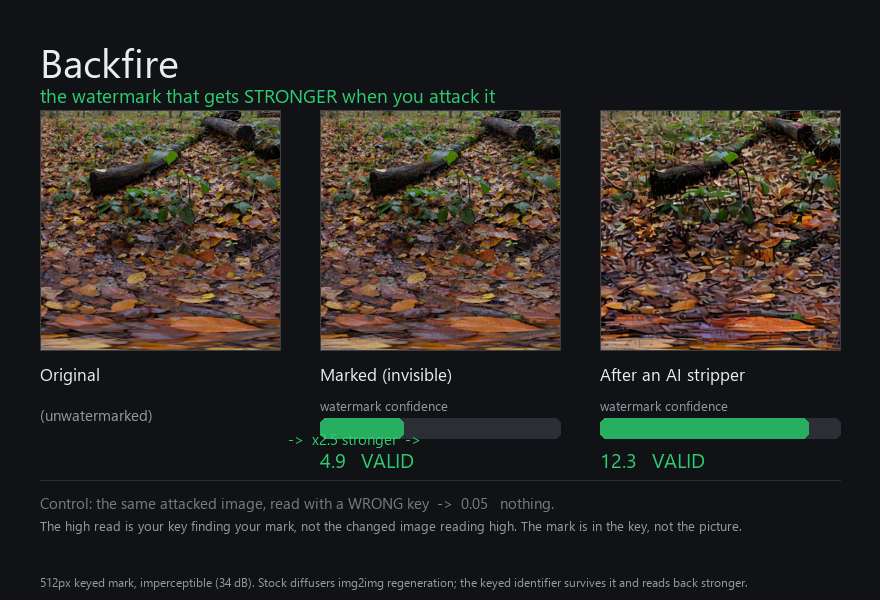
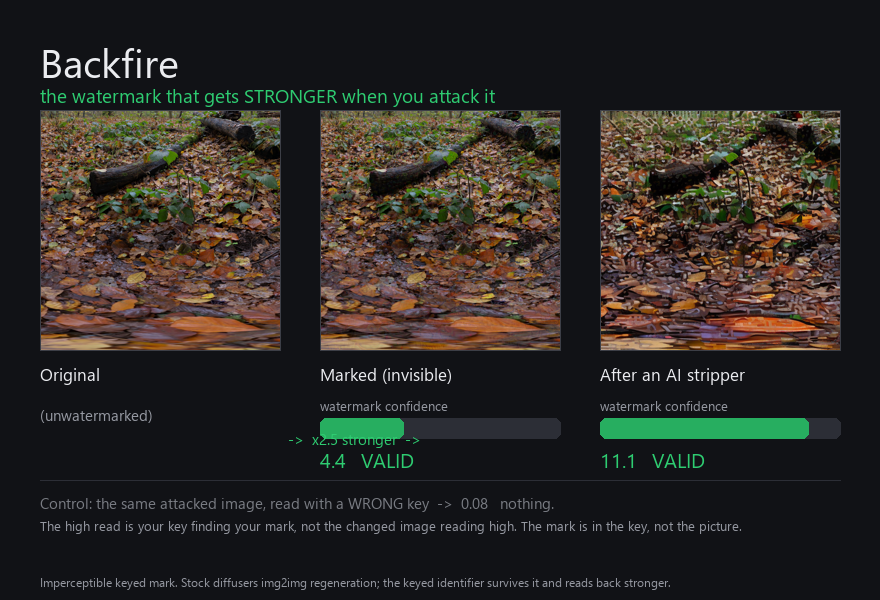
fix(backfire): address code review (model pin, size auto-detect, honest limits)
- Pin the diffusion purifier to a specific revision of a community SD-2.1
  mirror, and document why: Stability withdrew the official SD-2.1 weights
  from Hugging Face, so there is no canonical checkpoint left to depend on.
  The default is now reproducible and explained; override with --model /
  --revision or the BACKFIRE_SD_MODEL / BACKFIRE_SD_REVISION variables.
- read defaults to 512 and auto-tries the other resolution, so a bare
  `read sample_marked.png --key ...` on the 512 sample validates instead of
  silently returning invalid. This also fixes the CLI --backfire-read, which
  inherits the default.
- demo_amplify.py reads a wrong-key control and draws the same three-panel
  layout as the shipped demo, so running it reproduces demo_result.png. The
  demo is regenerated single-model on the pinned mirror (embed and attack on
  identical weights), replacing the earlier cross-model render.
- Flag the documented dead ends in their help text: --carriers edge and
  --notch-eot are shipped to reproduce a failed approach, not recommended.
- LIMITS scale numbers now match the README exactly: 24 photos for
  amplification and generalization, 1000 unmarked for false positives, 300
  clean with an 81-config notch grid for the tripwire.
- backfire_text clears its own stale smear shards (Identifier.3 and the like)
  on re-stamp via a prefix match, instead of leaving them to corrupt a decode.
- Soften the notch-threshold help to "clean tail ~1.4, threshold 1.45".
[…]

diff --git a/backfire/backfire.py b/backfire/backfire.py
@@ -25,6 +25,13 @@ LO, HI = 6.0, 40.0                 # mid-frequency carrier band (radial px @ 256
 ID_BITS, ID_REPS = 4, 8            # 4-bit keyed id (16 per key; keyspace unbounded), 8 reps
 NBITS = ID_BITS * ID_REPS          # 32 carriers, all id (reliability over capacity)
 
+# Diffusion purifier proxy. Stability withdrew the original SD-2.1 weights from Hugging
+# Face (the whole 2.x line is gone, not merely gated), so there is no official checkpoint
+# to point at. We develop against a complete community mirror of those weights, pinned to
+# an exact revision for reproducibility. Override with --model / --revision.
+DEFAULT_MODEL = "huanzi05/stable-diffusion-2-1-base"
+DEFAULT_REV = "f71d7867a2745c420aa93441638b119c85995963"
+
 def _scaled_band(lo: float, hi: float, size: int):
     """Scale an @256 radial-bin band to `size` so the same *relative* frequency
     (cycles/pixel) is used at any resolution. size=256 returns (lo, hi) unchanged, so
@@ -167,13 +174,25 @@ def notch_tamper_stat(gray, size):
 
 # ------------------------------- read (numpy) -------------------------------
 def read_cmd(a):
-    img = np.asarray(Image.open(a.infile).convert("RGB").resize((a.size, a.size)), np.float32) / 255.0
-    gray = img.mean(2)
-    idv, conf, margin = decode_keyed(gray, _key_bytes(a.key, a.hexkey), a.size, a.carriers)
-    valid = margin > a.threshold         # every id bit must clear the decoy noise floor
-    tamper = notch_tamper_stat(gray, a.size)
+    key = _key_bytes(a.key, a.hexkey)
+    rgb = Image.open(a.infile).convert("RGB")
+    # Try the requested size first, then the other standard resolution, so a mark
+    # embedded at either 256 or 512 is found without the caller guessing. Stop at
+    # the first size that validates; otherwise keep the requested size's result.
+    sizes = [a.size] + [s for s in (512, 256) if s != a.size]
+    best = None
+    for size in sizes:
+        gray = (np.asarray(rgb.resize((size, size)), np.float32) / 255.0).mean(2)
+        idv, conf, margin = decode_keyed(gray, key, size, a.carriers)
+        valid = bool(margin > a.threshold)   # every id bit must clear the decoy noise floor
+        tamper = notch_tamper_stat(gray, size)
+        if best is None or valid:
+            best = (size, idv, conf, margin, valid, tamper)
+        if valid:
+            break
+    size, idv, conf, margin, valid, tamper = best
     print(json.dumps({"id": idv, "id_hex": f"0x{idv:X}", "confidence": round(conf, 4),
-                      "min_bit_margin": round(margin, 4), "valid": valid,
+                      "min_bit_margin": round(margin, 4), "valid": valid, "size": size,
                       "match": (idv == a.expect) if a.expect is not None else None,
                       "notch_tamper": {"stat": round(tamper, 3), "detected": tamper > a.notch_threshold}}))
     if a.expect is not None:
@@ -195,14 +214,17 @@ def embed_cmd(a):
     model_ids = [m.strip() for m in a.models.split(",")] if a.models else [a.model]
 
     def build_purifier(model_id):
-        log(f"loading diffusion purifier proxy: {model_id} ...")
+        # Pin the tested revision for the default mirror; a custom --model uses --revision
+        # or main. Keeps the default reproducible now that the upstream weights are gone.
+        rev = a.revision if a.revision else (DEFAULT_REV if model_id == DEFAULT_MODEL else None)
+        log(f"loading diffusion purifier proxy: {model_id}{' @ ' + rev[:12] if rev else ''} ...")
         # force fp32 on every backend: some models (e.g. distilled ones) ship fp16
         # components, which mismatch the fp32 pipeline in cross-attention.
-        vae = AutoencoderKL.from_pretrained(model_id, subfolder="vae").to(dev).float().eval()
-        unet = UNet2DConditionModel.from_pretrained(model_id, subfolder="unet").to(dev).float().eval()
-        tok = CLIPTokenizer.from_pretrained(model_id, subfolder="tokenizer")
-        txt = CLIPTextModel.from_pretrained(model_id, subfolder="text_encoder").to(dev).float().eval()
-        sched = DDIMScheduler.from_pretrained(model_id, subfolder="scheduler")
+        vae = AutoencoderKL.from_pretrained(model_id, subfolder="vae", revision=rev).to(dev).float().eval()
+        unet = UNet2DConditionModel.from_pretrained(model_id, subfolder="unet", revision=rev).to(dev).float().eval()
+        tok = CLIPTokenizer.from_pretrained(model_id, subfolder="tokenizer", revision=rev)
+        txt = CLIPTextModel.from_pretrained(model_id, subfolder="text_encoder", revision=rev).to(dev).float().eval()
+        sched = DDIMScheduler.from_pretrained(model_id, subfolder="scheduler", revision=rev)
         for m in (vae, unet, txt):
             for p in m.parameters(): p.requires_grad_(False)
         unet.enable_gradient_checkpointing()
@@ -337,18 +359,24 @@ def main():
     e.add_argument("--direct", type=float, default=0.7, help="pre-attack readability weight")
     e.add_argument("--eot-strengths", default="0.2,0.3"); e.add_argument("--eot-noises", type=int, default=4)
     e.add_argument("--threshold", type=float, default=2.5, help="min per-bit margin for a valid read")
-    e.add_argument("--carriers", choices=["band", "edge"], default="band", help="band (default) or content-coupled edge-masked mid-low carriers")
-    e.add_argument("--notch-eot", type=float, default=0.0, help="weight on staying readable after a band-notch (notch-in-the-loop hardening; 0 = off)")
+    e.add_argument("--carriers", choices=["band", "edge"], default="band", help="band (default) or content-coupled edge-masked mid-low carriers. edge is a documented dead end (see LIMITS.md): it did not improve notch survival; shipped only to reproduce that result")
+    e.add_argument("--notch-eot", type=float, default=0.0, help="weight on staying readable after a band-notch (notch-in-the-loop). A documented dead end (see LIMITS.md): it never reached notch robustness; shipped only to reproduce that result, not recommended. 0 = off")
     e.add_argument("--assess", action="store_true", help="after embed, measure this mark's survival vs the purifier and a band-notch, and emit a per-image rating")
-    e.add_argument("--model", default="huanzi05/stable-diffusion-2-1-base")
+    e.add_argument("--model", default=DEFAULT_MODEL,
+                   help="diffusion purifier proxy. Stability withdrew the official SD-2.1 weights; "
+                        "the default is a pinned community mirror of them (see --revision)")
+    e.add_argument("--revision", default=None,
+                   help="pin a model git revision. Defaults to the tested revision when --model is "
+                        "the default mirror; ignored (uses main) for a custom --model")
     e.add_argument("--models", default=None, help="comma-separated diffusion backends for expectation-over-purifiers EOT (overrides --model; cost scales with count)")
     e.add_argument("--device", default="cuda")
     e.set_defaults(func=embed_cmd)
     r = sub.add_parser("read", help="recover the keyed id (numpy only, no GPU)")
     r.add_argument("infile"); r.add_argument("--key", required=True); r.add_argument("--hexkey", action="store_true")
-    r.add_argument("--size", type=int, default=256); r.add_argument("--threshold", type=float, default=2.5)
+    r.add_argument("--size", type=int, default=512, help="resolution to read at; if it does not validate, the other of 256/512 is tried automatically")
+    r.add_argument("--threshold", type=float, default=2.5)
     r.add_argument("--carriers", choices=["band", "edge"], default="band", help="must match how the image was embedded")
-    r.add_argument("--notch-threshold", type=float, default=NOTCH_TAMPER_THRESHOLD, help="band-notch tamper tripwire threshold (clean images < 1.4, mark-stripping notches > 4)")
+    r.add_argument("--notch-threshold", type=float, default=NOTCH_TAMPER_THRESHOLD, help="band-notch tamper tripwire threshold (clean tail ~1.4, threshold 1.45; mark-stripping notches read 4+)")
     r.add_argument("--expect", type=lambda x: int(x, 0), default=None, help="exit 0 iff this id is read and valid")
     r.set_defaults(func=read_cmd)
     a = ap.parse_args(); a.func(a)

diff --git a/backfire/repro/demo_amplify.py b/backfire/repro/demo_amplify.py
@@ -23,7 +23,10 @@ import subprocess
 import sys
 
 BF = os.path.join(os.path.dirname(__file__), os.pardir, "backfire.py")
-MODEL = os.environ.get("BACKFIRE_SD_MODEL", "stabilityai/stable-diffusion-2-1-base")
+# Stability withdrew the official SD-2.1 weights; use the same pinned community mirror the
+# embed side defaults to, so the demo is single-model (embed and attack on identical weights).
+MODEL = os.environ.get("BACKFIRE_SD_MODEL", "huanzi05/stable-diffusion-2-1-base")
+MODEL_REV = os.environ.get("BACKFIRE_SD_REVISION", "f71d7867a2745c420aa93441638b119c85995963")
 
 
 def sh_read(path, key, carriers, size):
@@ -49,8 +52,9 @@ def purify(marked_path, out_path, strength, steps, seed, size):
 
     dev = "cuda" if torch.cuda.is_available() else "cpu"
     dtype = torch.float16 if dev == "cuda" else torch.float32
+    rev = MODEL_REV if MODEL == "huanzi05/stable-diffusion-2-1-base" else None
     pipe = StableDiffusionImg2ImgPipeline.from_pretrained(
-        MODEL, torch_dtype=dtype, safety_checker=None
+        MODEL, revision=rev, torch_dtype=dtype, safety_checker=None
     )
     pipe.scheduler = DDIMScheduler.from_config(pipe.scheduler.config)
     pipe = pipe.to(dev)
@@ -62,7 +66,7 @@ def purify(marked_path, out_path, strength, steps, seed, size):
     out.save(out_path)
 
 
-def draw(original, marked, purified, m_marked, m_purified, out_path):
+def draw(original, marked, purified, m_marked, m_purified, m_wrong, out_path):
     from PIL import Image, ImageDraw, ImageFont
 
     def font(sz):
@@ -74,9 +78,9 @@ def draw(original, marked, purified, m_marked, m_purified, out_path):
 
     IMG, GAP, PADX, TOP = 240, 40, 40, 110
     W = PADX * 2 + IMG * 3 + GAP * 2
-    H = TOP + IMG + 210
+    H = TOP + IMG + 250
     BG, FG, SUB = (17, 18, 22), (235, 236, 240), (150, 153, 162)
-    GREEN, BAR, TRACK = (46, 204, 113), (39, 174, 96), (44, 46, 54)
+    GREEN, BAR, TRACK, GREY = (46, 204, 113), (39, 174, 96), (44, 46, 54), (120, 123, 130)
     c = Image.new("RGB", (W, H), BG)
     d = ImageDraw.Draw(c)
     d.text((PADX, 34), "Backfire", font=font(40), fill=FG)
@@ -85,7 +89,7 @@ def draw(original, marked, purified, m_marked, m_purified, out_path):
     cols = [
         (original, "Original", None),
         (marked, "Marked (invisible)", m_marked),
-        (purified, "After a diffusion stripper", m_purified),
+        (purified, "After an AI stripper", m_purified),
     ]
     maxm = max(m_marked, m_purified) * 1.15
     for i, (path, label, m) in enumerate(cols):
@@ -104,9 +108,19 @@ def draw(original, marked, purified, m_marked, m_purified, out_path):
         d.text((x, by + 50), f"{m:.1f}   VALID", font=font(20), fill=GREEN)
     d.text((PADX + IMG + 8, TOP + IMG + 78),
            f"->  x{m_purified / m_marked:.1f} stronger  ->", font=font(15), fill=GREEN)
-    d.text((PADX, H - 34),
-           "Same key, same image, imperceptible. The stripper that erases normal "
-           "watermarks makes the Backfire mark read STRONGER.", font=font(12), fill=SUB)
+    # Control: the SAME attacked image read with a WRONG key scores ~0. This proves the
+    # high read is the key finding the mark, not a changed image reading high.
+    cy = TOP + IMG + 130
+    d.line([PADX, cy, W - PADX, cy], fill=(44, 46, 54), width=1)
+    d.text((PADX, cy + 12),
+           f"Control: the same attacked image, read with a WRONG key  ->  {m_wrong:.2f}   nothing.",
+           font=font(15), fill=GREY)
+    d.text((PADX, cy + 36),
+           "The high read is your key finding your mark, not the changed image reading high. "
+           "The mark is in the key, not the picture.", font=font(13), fill=SUB)
+    d.text((PADX, H - 26),
+           "Imperceptible keyed mark. Stock diffusers img2img regeneration; the keyed "
+           "identifier survives it and reads back stronger.", font=font(12), fill=SUB)
     c.save(out_path)
 
 
@@ -145,18 +159,25 @@ def main():
     print(f"[2/4] running the diffusion regeneration attack (strength {a.strength}) ...")
     purify(marked, purified, a.strength, a.steps, a.seed, a.size)
 
-    print("[3/4] reading the keyed mark before and after the attack ...")
+    print("[3/4] reading the mark before and after the attack, plus a wrong-key control ...")
     rm = sh_read(marked, a.key, a.carriers, a.size)
     rp = sh_read(purified, a.key, a.carriers, a.size)
+    # The control: read the SAME attacked image with a different key. It must score ~0,
+    # proving the high read is the key finding the mark, not the changed image reading high.
+    rw = sh_read(purified, a.key + "-wrong-control", a.carriers, a.size)
     m_marked = rm.get("min_bit_margin")
     m_purified = rp.get("min_bit_margin")
+    m_wrong = rw.get("min_bit_margin")
     print(f"      marked : margin={m_marked} valid={rm.get('valid')} id={rm.get('id')}")
     print(f"      attacked: margin={m_purified} valid={rp.get('valid')} id={rp.get('id')}")
+    print(f"      wrong-key control (attacked): margin={m_wrong} valid={rw.get('valid')}")
     if not m_marked or not m_purified:
         sys.exit("read failed; see stderr above")
+    if m_wrong is None:
+        m_wrong = 0.0
 
     print(f"[4/4] rendering {out} ...")
-    draw(original, marked, purified, m_marked, m_purified, out)
+    draw(original, marked, purified, m_marked, m_purified, m_wrong, out)
     verdict = "AMPLIFIED" if m_purified > m_marked else "survived (did not amplify)"
     print(f"\n{verdict}: {m_marked:.2f} -> {m_purified:.2f}  (x{m_purified / m_marked:.2f})")
 

diff --git a/app/src-tauri/src/main.rs b/app/src-tauri/src/main.rs
@@ -62,9 +62,9 @@ async fn watermark_only(path: String) -> VerifyResponse {
 /// `backfire.py` tool, which is never compiled into or linked with this Apache-2.0
 /// app, and returns its parsed JSON. Backfire is keyed: it reads a mark YOU
 /// embedded, so a key is required. The tool is located via `$BACKFIRE_PY` or a
-/// `backfire/backfire.py` beside the working directory. We read at 512 (the current
-/// resolution) and retry at 256 so a mark embedded at either size is found; `read`
-/// exits 0/1 on the `--expect` check, so stdout is parsed regardless of exit status.
+/// `backfire/backfire.py` beside the working directory. `read` auto-detects the
+/// mark's resolution (256 or 512); it exits 0/1 on the `--expect` check, so stdout is
+/// parsed regardless of exit status.
 #[tauri::command]
 async fn backfire_read(
     path: String,
@@ -89,24 +89,9 @@ async fn backfire_read(
         };
         let carriers = carriers.unwrap_or_else(|| "band".to_string());
         let serial = serial.filter(|s| !s.trim().is_empty());
-        let mut first: Option<serde_json::Value> = None;
-        for size in ["512", "256"] {
-            match run_backfire_py_read(&script, &path, &key, serial.as_deref(), &carriers, size) {
-                Ok(v) => {
-                    let valid = v.get("valid").and_then(|b| b.as_bool()).unwrap_or(false);
-                    if valid {
-                        return ApiResult::ok(v);
-                    }
-                    if first.is_none() {
-                        first = Some(v);
-                    }
-                }
-                Err(e) => return ApiResult::err(e),
-            }
-        }
-        match first {
-            Some(v) => ApiResult::ok(v),
-            None => ApiResult::err("Backfire read produced no output.".to_string()),
+        match run_backfire_py_read(&script, &path, &key, serial.as_deref(), &carriers) {
+            Ok(v) => ApiResult::ok(v),
+            Err(e) => ApiResult::err(e),
         }
     })
     .await
@@ -125,15 +110,14 @@ fn locate_backfire_py() -> Option<PathBuf> {
     p.exists().then_some(p)
 }
 
-/// Run `backfire.py read` at one resolution (tries `python3` then `python`) and
-/// parse its last stdout line as JSON.
+/// Run `backfire.py read` (tries `python3` then `python`) and parse its last stdout
+/// line as JSON. `read` auto-detects the mark's resolution (256 or 512).
 fn run_backfire_py_read(
     script: &Path,
     path: &str,
     key: &str,
     serial: Option<&str>,
     carriers: &str,
-    size: &str,
 ) -> Result<serde_json::Value, String> {
     use std::process::Command;
     let mut argv: Vec<String> = vec![
@@ -144,8 +128,6 @@ fn run_backfire_py_read(
         key.to_string(),
         "--carriers".into(),
         carriers.to_string(),
-        "--size".into(),
-        size.to_string(),
     ];
     if let Some(s) = serial {
         argv.push("--expect".into());

diff --git a/backfire/backfire_text.py b/backfire/backfire_text.py
@@ -37,6 +37,15 @@ TOKEN_BYTES = 16                  # 128-bit keyed token
 # ordinary identifiers, not "watermark". Order matters (reassembly uses it).
 FIELDS = ["Identifier", "DocumentID", "InstanceID"]
 
+def _is_backfire_field(k):
+    """True for a field this tool owns: a FIELDS name, or a smeared shard of one
+    (e.g. "Identifier.3"). Used to clear our own stale shards on re-stamp without
+    disturbing unrelated metadata; a plain prefix check would also catch shards
+    from a previous, larger --smear that a `k not in FIELDS` check would leave behind."""
+    if k in FIELDS:
+        return True
+    return any(k.startswith(f + ".") and k[len(f) + 1:].isdigit() for f in FIELDS)
+
 
 def _key_bytes(k: str, is_hex: bool) -> bytes:
     return bytes.fromhex(k) if is_hex else k.encode()
@@ -118,7 +127,7 @@ def stamp_cmd(a):
     img = Image.open(a.infile)
     meta = PngImagePlugin.PngInfo()
     for k, v in (img.text.items() if hasattr(img, "text") else []):
-        if k not in FIELDS:                     # preserve unrelated existing text
+        if not _is_backfire_field(k):           # preserve unrelated existing text, drop our own stale shards
             meta.add_text(k, v)
     fields = encode_fields(key, a.serial, a.smear)
     for k, v in fields.items():

diff --git a/backfire/LIMITS.md b/backfire/LIMITS.md
@@ -8,7 +8,7 @@ Backfire is experimental research. This document states, plainly, what it does n
 - **Embed speed.** Minutes per image on a high-end GPU, because the mark is optimized per image against a differentiable purifier. `read` is instant, numpy-only, no GPU.
 - **Resolution.** Validated at both 256 and 512 px. 512 is Stable Diffusion's native resolution and gives a cleaner regeneration; embedding there needs a 16 GB-class GPU.
 - **Ordinary image handling.** The mark survives JPEG (quality 50 to 90), downscaling to half size, blur, and sensor noise, but it is **not crop-invariant**: the keyed carriers are position- and scale-locked, so a hard crop or large re-composition removes it. Re-mark after cropping.
-- **Scale of validation.** A few thousand images (amplification and generalization over diverse COCO val2017 photos; false positives over 1,000 unmarked images), not production millions. Consistent across our sets, but research-scale, not a field study.
+- **Scale of validation.** Research-scale, not production millions. Amplification and generalization were measured over **24** diverse COCO val2017 photos; false positives over **1,000** unmarked images; the notch tripwire over **300** clean images with an 81-config notch grid. Consistent across our sets, but not a field study.
 - **Attack scope.** The amplification claim is scoped to **purification-class strippers** (diffusion regeneration attacks), which are what is deployed. It is not a general robustness claim against every possible transform.
 - **The adaptive attacker.** A sophisticated attacker who reads this source can strip the mark with an aggressive band-notch. That attack is **detected, not survived** (see the tamper tripwire). If your threat model includes an adversary who is willing to visibly degrade the image and does not care about leaving detectable tamper evidence, the mark itself will not stop them, though the tripwire will flag it.
 

diff --git a/backfire/repro/README.md b/backfire/repro/README.md
@@ -48,6 +48,22 @@ areas poorly), so the sample is a forest floor with detail edge to edge. The sub
 you see after the attack are the regeneration doing its work, not the mark; the wrong-key
 control above is there precisely so you do not have to take that on faith.
 
+## The diffusion weights
+
+Stability withdrew the original Stable Diffusion 2.1 weights from Hugging Face (the whole
+2.x line, not merely gated behind a license). There is no official checkpoint left to point
+at, so Backfire develops against a complete community **mirror** of those weights, pinned to
+an exact revision for reproducibility:
+
+```
+huanzi05/stable-diffusion-2-1-base @ f71d7867a2745c420aa93441638b119c85995963
+```
+
+Both the embed default and this demo use that pinned revision, so the demo is single-model
+(embed and attack run on identical weights). Point `--model` (and `--revision`), or the
+`BACKFIRE_SD_MODEL` / `BACKFIRE_SD_REVISION` environment variables, at any other SD-2.1
+checkpoint you trust or mirror yourself.
+
 ## The sample image
 
 `sample.png` is a 512x512 crop of *Autumn ground* by Greg Zaal (Poly Haven), redistributed
